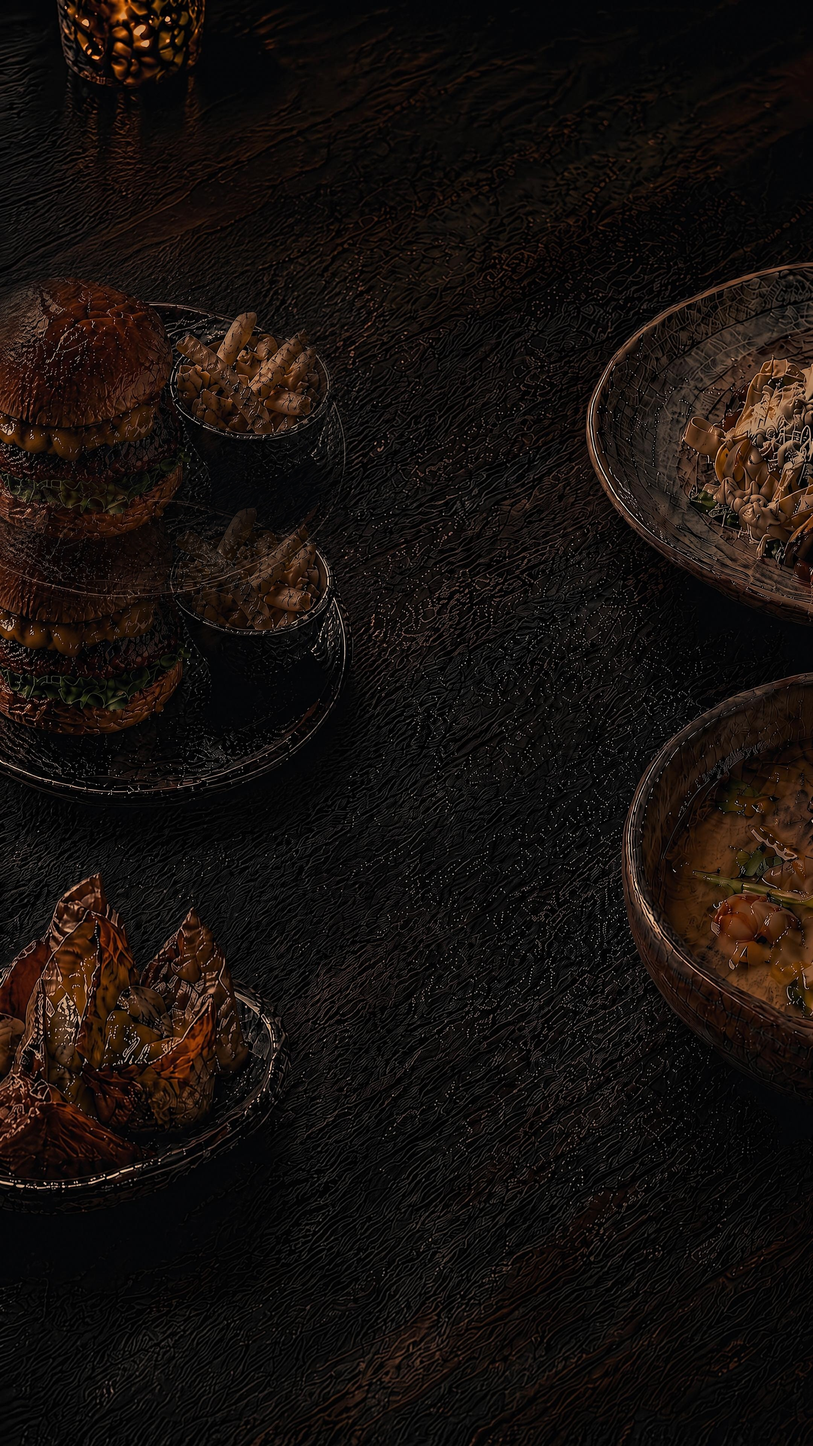
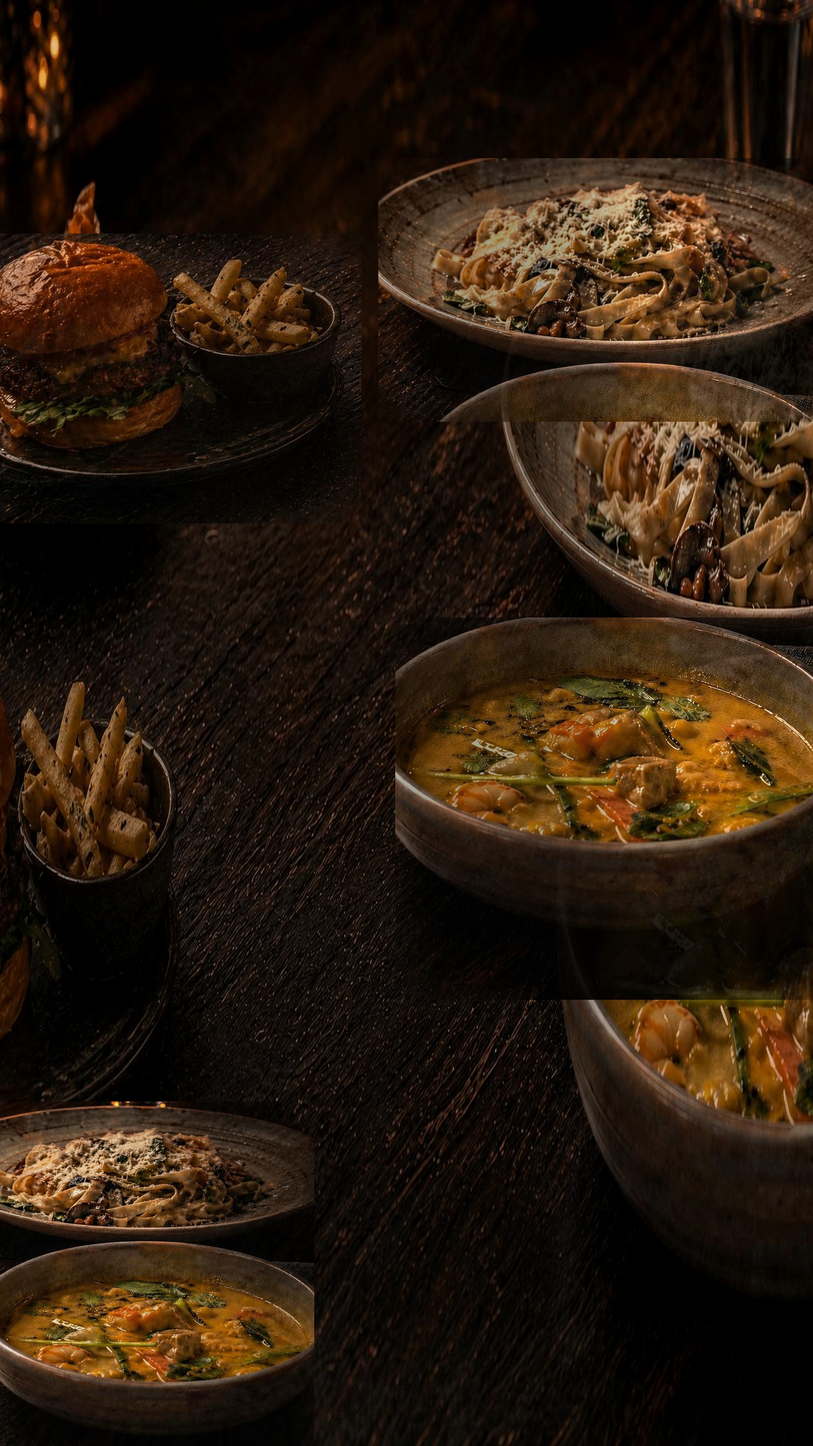
Arrange mobile hero food layout

diff --git a/index.html b/index.html
@@ -32,7 +32,7 @@
     .flow-section{background:var(--white);padding:6rem 2rem}.flow-header{text-align:center;margin-bottom:4rem}.flow-diagram{max-width:980px;margin:0 auto}.flow-row{display:grid;grid-template-columns:repeat(4,1fr);gap:1rem}.flow-card{background:var(--off-white);border:1px solid var(--gray-200);border-radius:18px;padding:1.5rem;text-align:left}.flow-card .step{display:inline-flex;align-items:center;justify-content:center;width:28px;height:28px;border-radius:999px;background:var(--yellow);font-size:.8rem;font-weight:900;color:var(--black);margin-bottom:1rem}.flow-card .label{font-size:.72rem;font-weight:800;text-transform:uppercase;letter-spacing:.1em;color:var(--gray-400);margin-bottom:.35rem}.flow-card .value{font-weight:850;font-size:1.18rem;margin-bottom:.6rem}.flow-card .hint{font-size:.84rem;color:var(--gray-500);line-height:1.45}.choice-pair{display:flex;gap:.45rem;margin-top:.85rem;flex-wrap:wrap}.choice-chip{font-size:.75rem;font-weight:800;background:#fff;border:1px solid var(--gray-200);border-radius:999px;padding:.35rem .65rem}.choice-chip.hot{background:#fff7cc;border-color:#ffec66}
     .phone-section{background:var(--black);padding:6rem 2rem;text-align:center;position:relative;overflow:hidden}.phone-section::before{content:'';position:absolute;top:-30%;left:-20%;width:700px;height:700px;background:radial-gradient(circle,rgba(255,230,0,.07)0%,transparent 70%);border-radius:50%}.phone-section h2{color:var(--white);margin-bottom:1rem;position:relative;z-index:1}.phone-section>p{color:rgba(255,255,255,.46);margin:0 auto 3rem;position:relative;z-index:1;font-size:.98rem;max-width:620px}.phone-row{display:flex;gap:1.25rem;justify-content:center;flex-wrap:wrap;position:relative;z-index:1}.phone-frame{background:linear-gradient(145deg,#24242a,#050505);border-radius:42px;padding:11px;box-shadow:0 30px 80px rgba(0,0,0,.55),inset 0 0 0 1px rgba(255,255,255,.08);width:238px;flex-shrink:0}.phone-screen{background:#050505;border-radius:31px;aspect-ratio:390/844;padding:1rem;display:flex;flex-direction:column;overflow:hidden;position:relative;color:#fff;text-align:left}.phone-status{height:22px;display:flex;align-items:center;justify-content:space-between;color:#fff;font-size:.64rem;font-weight:800;margin-bottom:.9rem}.status-icons{display:flex;align-items:center;gap:.28rem}.bars{display:flex;gap:1px;align-items:end;height:10px}.bars span{display:block;width:2px;background:#fff;border-radius:2px}.bars span:nth-child(1){height:4px}.bars span:nth-child(2){height:6px}.bars span:nth-child(3){height:8px}.bars span:nth-child(4){height:10px}.wifi{width:12px;height:8px;border:2px solid #fff;border-top:none;border-left-color:transparent;border-right-color:transparent;border-radius:0 0 10px 10px;transform:rotate(180deg);opacity:.9}.battery{width:18px;height:9px;border:1.5px solid #fff;border-radius:3px;position:relative}.battery::after{content:'';position:absolute;right:-3px;top:2px;width:2px;height:4px;background:#fff;border-radius:1px}.battery::before{content:'';position:absolute;left:2px;top:2px;width:11px;height:3px;background:var(--yellow);border-radius:1px}.phone-brand{font-size:1.15rem;font-weight:900;color:var(--yellow);letter-spacing:-.04em;margin-bottom:.25rem}.phone-progress{font-size:.61rem;text-transform:uppercase;letter-spacing:.13em;color:rgba(255,255,255,.35);font-weight:800}.phone-question{font-size:1.28rem;line-height:1.05;font-weight:900;letter-spacing:-.04em;margin:1rem 0}.food-grid{display:grid;grid-template-columns:1fr 1fr;gap:.62rem}.food-option{border:1px solid rgba(255,255,255,.1);border-radius:18px;overflow:hidden;background:rgba(255,255,255,.045)}.food-option.selected{border-color:var(--yellow);box-shadow:0 0 0 1px rgba(255,230,0,.4),0 12px 30px rgba(255,230,0,.08)}.food-option img{width:100%;aspect-ratio:1/1;display:block;object-fit:cover}.food-option b{display:block;padding:.55rem .55rem .1rem;font-size:.72rem}.food-option span{display:block;padding:0 .55rem .6rem;font-size:.58rem;color:rgba(255,255,255,.43)}.screen-note{font-size:.68rem;color:rgba(255,255,255,.45);line-height:1.45;margin-top:.85rem}.delivery-card{border:1px solid rgba(255,255,255,.1);border-radius:18px;padding:.85rem;background:rgba(255,255,255,.045);margin-bottom:.7rem}.delivery-card.selected{border-color:var(--yellow);background:rgba(255,230,0,.08)}.delivery-card b{display:block;font-size:.82rem;margin-bottom:.2rem}.delivery-card span{font-size:.65rem;color:rgba(255,255,255,.45)}.result-img{width:100%;aspect-ratio:1/1;border-radius:20px;object-fit:cover;margin:.4rem 0 .8rem}.result-title{font-size:1.05rem;font-weight:900;line-height:1.1}.result-meta{font-size:.67rem;color:rgba(255,255,255,.48);margin:.35rem 0 .8rem}.phone-button{background:var(--yellow);color:#000;border-radius:999px;text-align:center;font-size:.78rem;font-weight:900;padding:.72rem}.phone-secondary{text-align:center;color:rgba(255,255,255,.5);font-size:.68rem;font-weight:800;margin-top:.7rem}.phone-dots{display:flex;gap:.32rem;justify-content:center;margin-top:auto;padding-top:.85rem}.phone-dot{width:5px;height:5px;border-radius:50%;background:rgba(255,255,255,.16)}.phone-dot.active{background:var(--yellow);width:16px;border-radius:4px}
     .features{padding:7rem 2rem;background:var(--off-white)}.features h2{text-align:center;margin-bottom:1rem}.features>p{text-align:center;color:var(--gray-500);margin-bottom:4rem;font-size:1.05rem}.features-grid{display:grid;grid-template-columns:repeat(3,1fr);gap:1.5rem;max-width:1000px;margin:0 auto}.f-card{background:var(--white);border:1px solid var(--gray-200);border-radius:20px;padding:2rem;text-align:left}.feature-icon{width:44px;height:44px;border-radius:14px;background:rgba(255,230,0,.18);border:1px solid rgba(255,230,0,.5);display:inline-flex;align-items:center;justify-content:center;margin-bottom:1rem}.feature-icon svg{width:24px;height:24px;stroke:var(--black);stroke-width:2.1;fill:none;stroke-linecap:round;stroke-linejoin:round}.feature-icon .accent{stroke:var(--yellow);stroke-width:2.6}.f-card h4{font-size:1.1rem;font-weight:800;margin-bottom:.5rem}.f-card p{font-size:.88rem;color:var(--gray-500);line-height:1.6}.signup{position:relative;padding:8rem 2rem;text-align:center;overflow:hidden}.signup-bg{position:absolute;inset:0;z-index:0}.signup-bg img{width:100%;height:100%;object-fit:cover;filter:brightness(.25) saturate(.82);object-position:center}.signup-overlay{position:absolute;inset:0;background:linear-gradient(135deg,rgba(0,0,0,.86),rgba(0,0,0,.62));z-index:1}.signup-inner{position:relative;z-index:2;max-width:580px;margin:0 auto}.signup h2{color:var(--white);margin-bottom:1rem}.signup p{color:rgba(255,255,255,.58);font-size:1.05rem;margin-bottom:2.5rem}.signup-form{display:flex;gap:.75rem;max-width:480px;margin:0 auto}.signup-form input{flex:1;padding:1rem 1.25rem;border-radius:100px;border:1px solid rgba(255,255,255,.12);background:rgba(255,255,255,.06);color:var(--white);font-size:1rem;font-family:inherit;outline:none}.signup-form input::placeholder{color:rgba(255,255,255,.28)}.signup-form input:focus{border-color:var(--yellow)}.signup-form button,.survey-submit{background:var(--yellow);color:var(--black);border:none;padding:1rem 2rem;border-radius:100px;font-size:1rem;font-weight:900;cursor:pointer;font-family:inherit;white-space:nowrap}.signup-form button:disabled{opacity:.5;cursor:not-allowed}.survey{display:none;padding:3rem 2rem 5rem;background:var(--black);text-align:center;border-top:1px solid rgba(255,255,255,.04)}.survey.visible{display:block}.survey-inner{max-width:560px;margin:0 auto}.survey h3{color:var(--white);font-size:1.3rem;margin-bottom:.5rem}.survey .sub{color:rgba(255,255,255,.45);font-size:.9rem;margin-bottom:2rem}.survey-question{margin-bottom:1.75rem;text-align:left}.survey-question .q-title{color:rgba(255,255,255,.65);font-size:.9rem;font-weight:700;margin-bottom:.75rem}.survey-options{display:flex;flex-direction:column;gap:.5rem}.survey-opt{display:flex;align-items:center;gap:.75rem;padding:.85rem 1.25rem;border-radius:12px;background:rgba(255,255,255,.03);border:1px solid rgba(255,255,255,.06);cursor:pointer;color:rgba(255,255,255,.7);font-size:.9rem;font-weight:500}.survey-opt input{appearance:none;-webkit-appearance:none;width:18px;height:18px;border:2px solid rgba(255,255,255,.15);border-radius:50%;flex-shrink:0}.survey-opt input:checked{border-color:var(--yellow);background:var(--yellow)}.survey-success{display:none;padding:2rem 0}.survey-success.visible{display:block}.survey-success .big{font-size:3.5rem;margin-bottom:1rem}.survey-success h3{color:var(--yellow)}footer{padding:4rem 2rem;background:var(--off-white);text-align:center}footer .f-logo{display:flex;align-items:center;justify-content:center;gap:.5rem;margin-bottom:1rem}footer .f-logo span{font-weight:900;font-size:.9rem;color:var(--yellow);letter-spacing:-.03em}footer .f-links{display:flex;gap:2rem;justify-content:center;margin-bottom:1.5rem}footer .f-links a{color:var(--gray-400);text-decoration:none;font-size:.85rem}footer p{color:var(--gray-400);font-size:.8rem}.fade-in{opacity:0;transform:translateY(30px);transition:opacity .6s ease-out,transform .6s ease-out}.fade-in.visible{opacity:1;transform:translateY(0)}.loader{display:none;width:20px;height:20px;border:2px solid rgba(0,0,0,.1);border-top-color:var(--black);border-radius:50%;animation:spin .6s linear infinite;margin:0 auto}.loader.visible{display:inline-block}@keyframes spin{to{transform:rotate(360deg)}}
-    @media(max-width:1080px){.flow-row{grid-template-columns:repeat(2,1fr)}.features-grid{grid-template-columns:repeat(2,1fr)}}@media(max-width:768px){nav{padding:1rem 1.25rem}.hero-bg img{object-fit:cover;object-position:center top}.hero{padding:6rem 1.25rem 3rem}.problem-stats,.flow-row,.features-grid{grid-template-columns:1fr}.signup-form{flex-direction:column}.signup-form button{width:100%}.phone-frame{width:260px}.hero-cta-group{flex-direction:column;align-items:center}.btn-primary,.btn-secondary{width:100%;max-width:320px}}@media(max-width:600px){.stat-number{font-size:2rem}.phone-section h2{font-size:1.75rem}}
+    @media(max-width:1080px){.flow-row{grid-template-columns:repeat(2,1fr)}.features-grid{grid-template-columns:repeat(2,1fr)}}@media(max-width:768px){nav{padding:1rem 1.25rem}.hero{padding:6rem 1.25rem 3rem}.problem-stats,.flow-row,.features-grid{grid-template-columns:1fr}.signup-form{flex-direction:column}.signup-form button{width:100%}.phone-frame{width:260px}.hero-cta-group{flex-direction:column;align-items:center}.btn-primary,.btn-secondary{width:100%;max-width:320px}}@media(max-width:600px){.stat-number{font-size:2rem}.phone-section h2{font-size:1.75rem}}
   </style>
 </head>
 <body>
@@ -45,7 +45,7 @@
   </nav>
 
   <section class="hero">
-    <div class="hero-bg"><img src="assets/hero-food.jpg" alt="Premium Decidr food spread" loading="eager"></div>
+    <div class="hero-bg"><picture><source media="(max-width: 768px)" srcset="assets/hero-food-mobile.jpg"><img src="assets/hero-food.jpg" alt="Premium Decidr food spread" loading="eager"></picture></div>
     <div class="hero-overlay"></div>
     <div class="hero-content">
       <div class="hero-logo-mark"><img src="assets/logo-app-icon.png" alt="Decidr D checkmark app icon"><span>Decidr</span></div>
